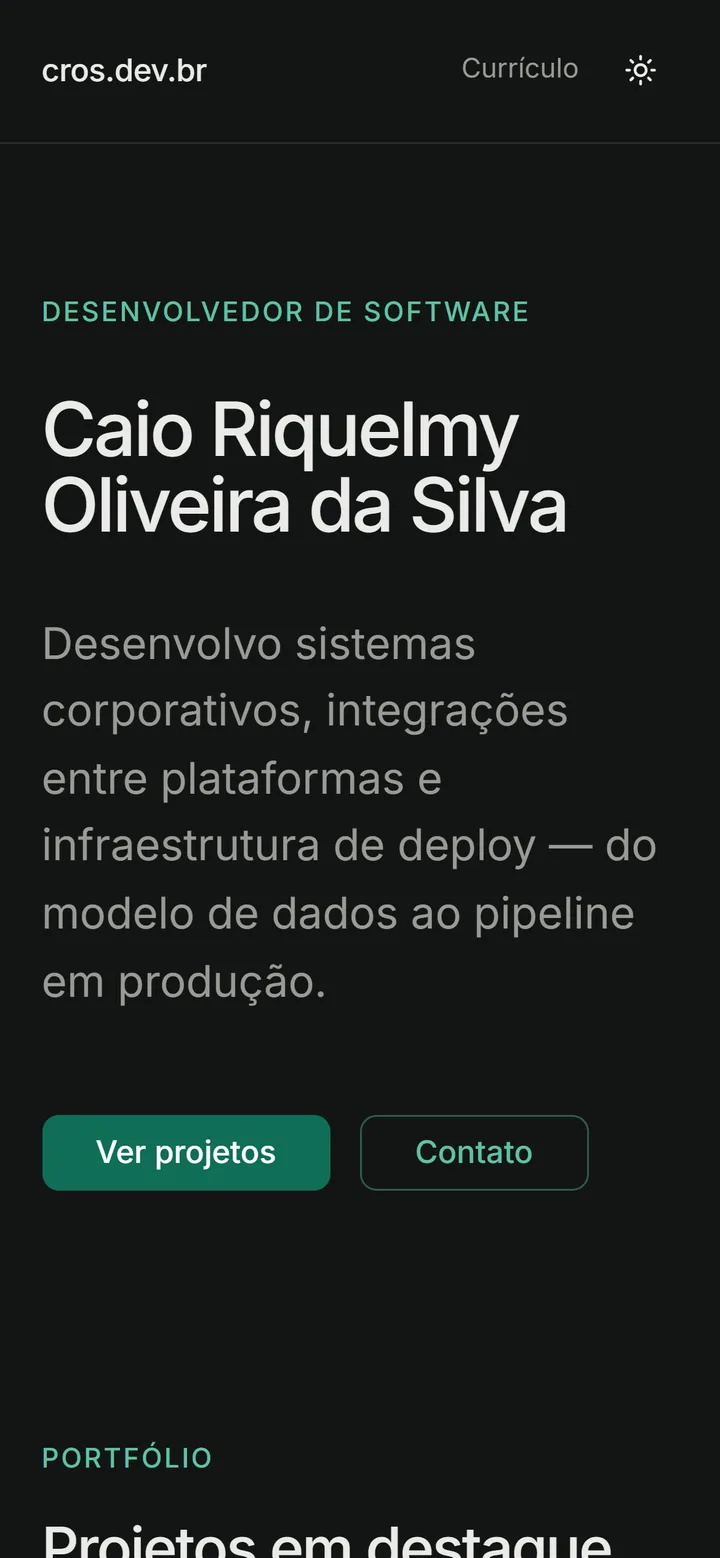
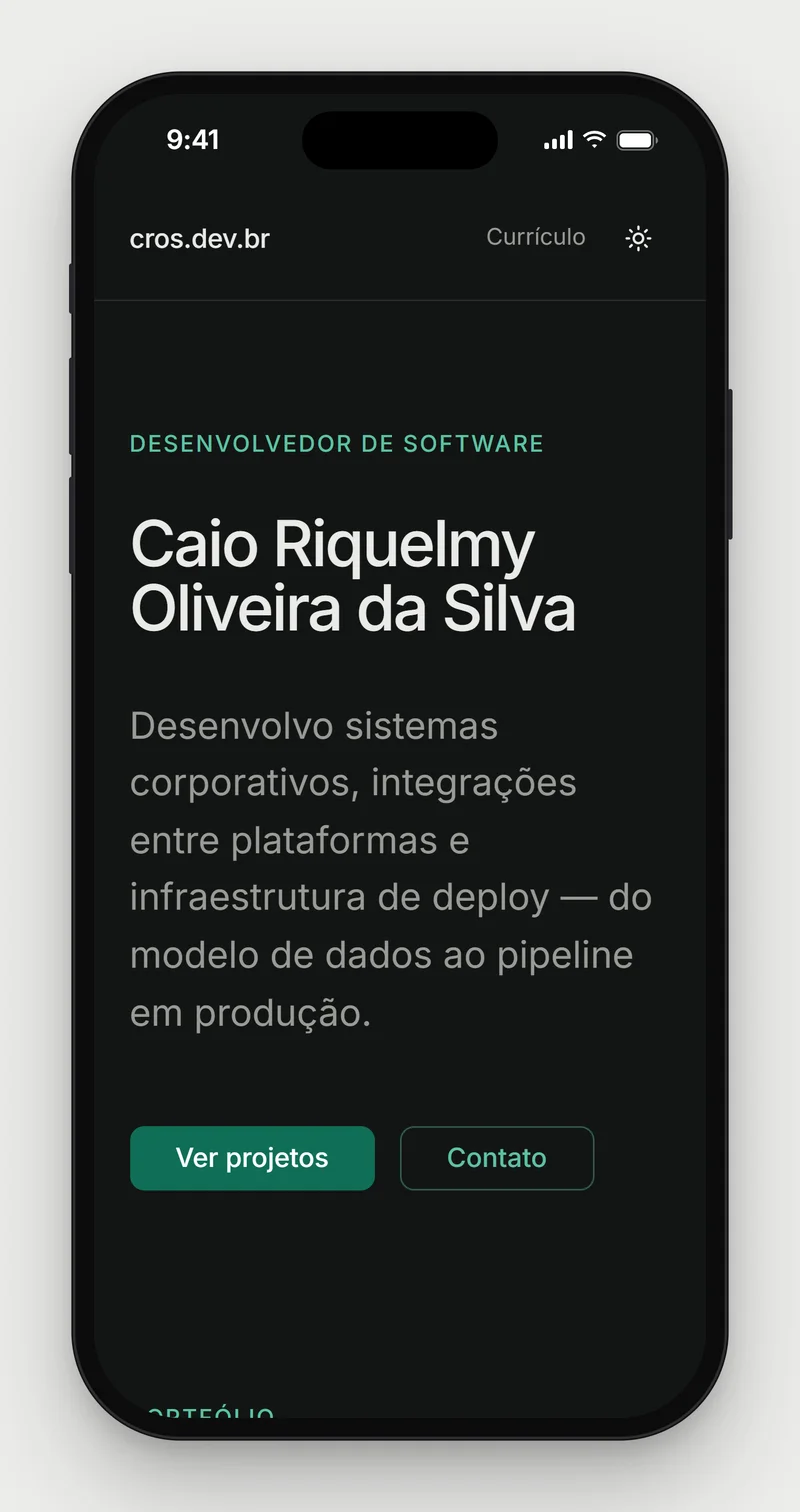
feat: apresenta captura de celular do cros.dev.br em moldura de aparelho
- Captura de celular do cros.dev.br em moldura de aparelho com fundo cinza claro

diff --git a/src/features/projects/content/projects.ts b/src/features/projects/content/projects.ts
@@ -133,8 +133,8 @@ export const projects = parseContent(
         {
           src: crosInicioCelular,
           alt: "Página inicial no celular, no tema escuro",
-          width: 720,
-          height: 1558,
+          width: 800,
+          height: 1512,
         },
       ],
     },
